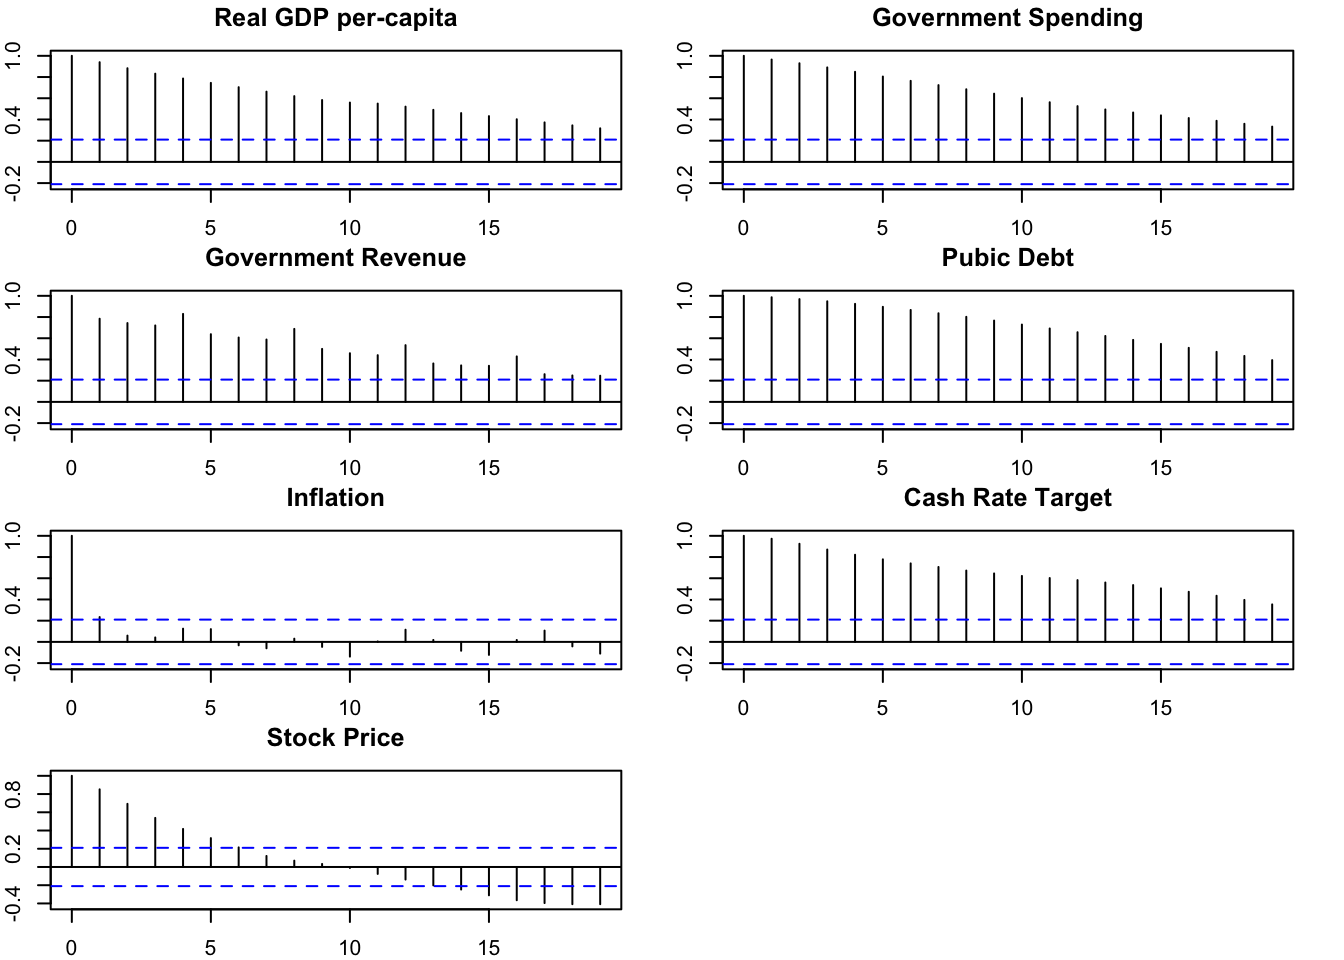
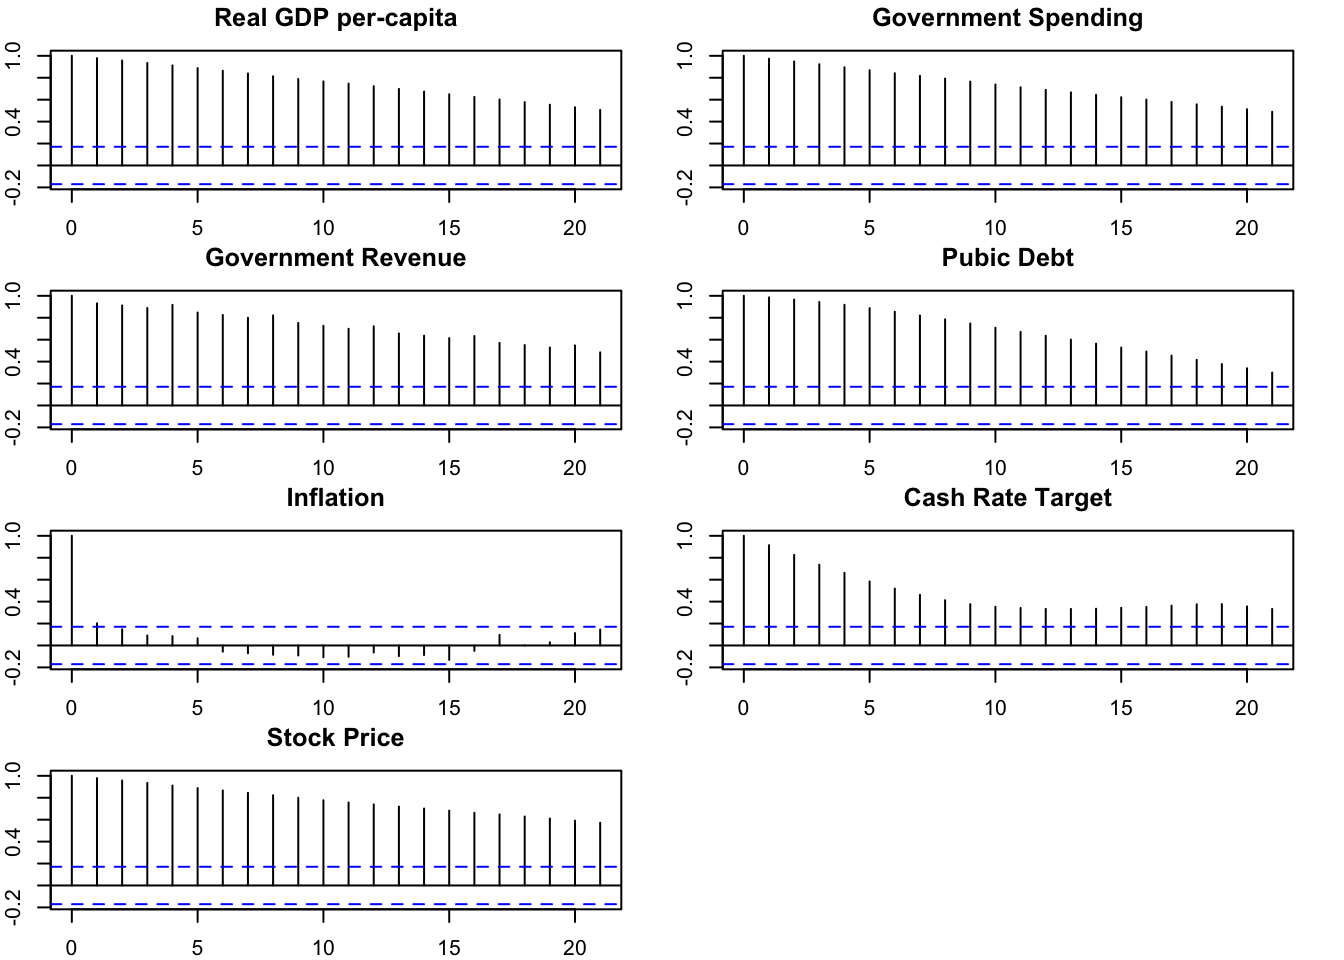
commit in the right way

diff --git a/docs/index.html b/docs/index.html
@@ -154,8 +154,8 @@ code span.wa { color: #60a0b0; font-weight: bold; font-style: italic; } /* Warni
   <ul>
   <li><a href="#motivation" id="toc-motivation" class="nav-link active" data-scroll-target="#motivation">Motivation</a></li>
   <li><a href="#data" id="toc-data" class="nav-link" data-scroll-target="#data">Data</a></li>
-  <li><a href="#methodology" id="toc-methodology" class="nav-link" data-scroll-target="#methodology">Methodology</a></li>
   <li><a href="#preliminary-results" id="toc-preliminary-results" class="nav-link" data-scroll-target="#preliminary-results">Preliminary Results</a></li>
+  <li><a href="#methodology" id="toc-methodology" class="nav-link" data-scroll-target="#methodology">Methodology</a></li>
   <li><a href="#references" id="toc-references" class="nav-link" data-scroll-target="#references">References</a></li>
   </ul>
 </nav>
@@ -187,7 +187,7 @@ code span.wa { color: #60a0b0; font-weight: bold; font-style: italic; } /* Warni
 </header>
 
 <blockquote class="blockquote">
-<p><strong>Abstract.</strong> This is a reserarch proposal, the project is about measuring fiscal policy effects using Bayesian Structural Vector Autoregression (SVAR) in Australian Economy. Inpulse responses of stock prices and macroeconomic aggregates will be investigated.</p>
+<p><strong>Abstract.</strong> This is a reserarch proposal, the project is about measuring fiscal policy effects using Bayesian Structural Vector Autoregression (SVAR) in Australian Economy. Impulse responses of stock prices and macroeconomic aggregates will be investigated.</p>
 <p><strong>Keywords.</strong> fiscal policy shock, SVAR, tax shocks, stock price, impulse response function</p>
 </blockquote>
 <section id="motivation" class="level1">
@@ -202,8 +202,8 @@ code span.wa { color: #60a0b0; font-weight: bold; font-style: italic; } /* Warni
 <div class="cell">
 
 </div>
-<p>The variables that are of interest include GDP, total government expenditure, total government revenue, cash rate target, inflation, public debt and stock prices. Those economic variables were collected from Reserve Bank of Australia (RBA) and Australian Bureau of Statistics (ABS), spanning quarterly from 1990 Q1 to 2022 Q4.</p>
-<p>Stock prices are data of All Ordinaries, which is the benchmark of Australian market with relative long history, separate financial sectors might be studied into detail in the future research. All Ordinaries data started from 2001-04-19, matching the date need to truncate 10 years of observations, which will result in a smaller sample size, thus, sub-samples would be considered to be implemented, for example, there could be one sample containing all the variables from 1990 to 2022 except stock prices to investigate the effects on economy. Inflation and cash rate target are also introduced in the model as controls.(Plots of original data are shown in: <a href="#fig-plot">Figure&nbsp;1</a>.)</p>
+<p>The variables that are of interest include GDP, total government expenditure, total government revenue, cash rate target, inflation, public debt and stock prices. Those economic variables were collected from Reserve Bank of Australia (RBA) and Australian Bureau of Statistics (ABS), spanning quarterly from 1990 Q1 to 2022 Q4, including 132 observations.</p>
+<p>Stock prices are data of All Ordinaries, which is the benchmark of Australian market with relative long history, separate financial sectors might be studied into detail in the future research. Inflation and cash rate target are also introduced in the model as controls. Original data are plotted in: <a href="#fig-plot">Figure&nbsp;1</a>.</p>
 <div class="cell">
 
 </div>
@@ -212,7 +212,7 @@ code span.wa { color: #60a0b0; font-weight: bold; font-style: italic; } /* Warni
 <div id="fig-plot" class="quarto-figure quarto-figure-center anchored">
 <figure class="figure">
 <p><img src="index_files/figure-html/fig-plot-1.png" class="img-fluid figure-img" width="672"></p>
-<p></p><figcaption class="figure-caption">Figure&nbsp;1: Time Series Plots : in nominal prices</figcaption><p></p>
+<p></p><figcaption class="figure-caption">Figure&nbsp;1: Time Series Plots (in nominal prices)</figcaption><p></p>
 </figure>
 </div>
 </div>
@@ -222,12 +222,12 @@ code span.wa { color: #60a0b0; font-weight: bold; font-style: italic; } /* Warni
 <div class="cell">
 
 </div>
-<p><a href="#tbl-irf">Table&nbsp;1</a> provides summary statistics of wrangled datan from 2001Q2 to 2022Q4.</p>
+<p><a href="#tbl-irf">Table&nbsp;1</a> provides statistics summary of all variables from 2001Q2 to 2022Q4.</p>
 <div class="cell">
 <div class="cell-output-display">
 <div id="tbl-irf" class="anchored">
 <table class="table table-sm table-striped">
-<caption>Table&nbsp;1: Summary Statistics</caption>
+<caption>Table&nbsp;1: Statistics Summary</caption>
 <thead>
 <tr class="header">
 <th style="text-align: left;"></th>
@@ -241,59 +241,59 @@ code span.wa { color: #60a0b0; font-weight: bold; font-style: italic; } /* Warni
 <tbody>
 <tr class="odd">
 <td style="text-align: left;">GDP</td>
-<td style="text-align: right;">87</td>
-<td style="text-align: right;">5.235</td>
-<td style="text-align: right;">0.072</td>
-<td style="text-align: right;">5.071</td>
+<td style="text-align: right;">132</td>
+<td style="text-align: right;">5.131</td>
+<td style="text-align: right;">0.164</td>
+<td style="text-align: right;">4.813</td>
 <td style="text-align: right;">5.356</td>
 </tr>
 <tr class="even">
 <td style="text-align: left;">Spending</td>
-<td style="text-align: right;">87</td>
-<td style="text-align: right;">3.587</td>
-<td style="text-align: right;">0.130</td>
-<td style="text-align: right;">3.381</td>
+<td style="text-align: right;">132</td>
+<td style="text-align: right;">3.472</td>
+<td style="text-align: right;">0.197</td>
+<td style="text-align: right;">3.119</td>
 <td style="text-align: right;">3.846</td>
 </tr>
 <tr class="odd">
 <td style="text-align: left;">Revenue</td>
-<td style="text-align: right;">87</td>
-<td style="text-align: right;">5.131</td>
-<td style="text-align: right;">0.088</td>
-<td style="text-align: right;">4.925</td>
+<td style="text-align: right;">132</td>
+<td style="text-align: right;">5.024</td>
+<td style="text-align: right;">0.173</td>
+<td style="text-align: right;">4.654</td>
 <td style="text-align: right;">5.301</td>
 </tr>
 <tr class="even">
 <td style="text-align: left;">Debt</td>
-<td style="text-align: right;">87</td>
-<td style="text-align: right;">4.724</td>
-<td style="text-align: right;">0.794</td>
+<td style="text-align: right;">132</td>
+<td style="text-align: right;">4.660</td>
+<td style="text-align: right;">0.664</td>
 <td style="text-align: right;">3.549</td>
 <td style="text-align: right;">5.900</td>
 </tr>
 <tr class="odd">
 <td style="text-align: left;">Inflation</td>
-<td style="text-align: right;">87</td>
-<td style="text-align: right;">0.653</td>
-<td style="text-align: right;">0.547</td>
+<td style="text-align: right;">132</td>
+<td style="text-align: right;">0.650</td>
+<td style="text-align: right;">0.617</td>
 <td style="text-align: right;">-1.923</td>
-<td style="text-align: right;">2.098</td>
+<td style="text-align: right;">3.704</td>
 </tr>
 <tr class="even">
 <td style="text-align: left;">Interest</td>
-<td style="text-align: right;">87</td>
-<td style="text-align: right;">3.372</td>
-<td style="text-align: right;">2.006</td>
+<td style="text-align: right;">132</td>
+<td style="text-align: right;">4.605</td>
+<td style="text-align: right;">2.906</td>
 <td style="text-align: right;">0.100</td>
-<td style="text-align: right;">7.250</td>
+<td style="text-align: right;">16.750</td>
 </tr>
 <tr class="odd">
 <td style="text-align: left;">Stock</td>
-<td style="text-align: right;">87</td>
-<td style="text-align: right;">4.102</td>
-<td style="text-align: right;">0.151</td>
-<td style="text-align: right;">3.784</td>
-<td style="text-align: right;">4.484</td>
+<td style="text-align: right;">132</td>
+<td style="text-align: right;">-3.126</td>
+<td style="text-align: right;">1.981</td>
+<td style="text-align: right;">-6.135</td>
+<td style="text-align: right;">0.534</td>
 </tr>
 </tbody>
 </table>
@@ -305,41 +305,11 @@ code span.wa { color: #60a0b0; font-weight: bold; font-style: italic; } /* Warni
 <div id="fig-line-plot" class="quarto-figure quarto-figure-center anchored">
 <figure class="figure">
 <p><img src="index_files/figure-html/fig-line-plot-1.png" class="img-fluid figure-img" width="672"></p>
-<p></p><figcaption class="figure-caption">Figure&nbsp;2: Time Series Plots (Green lines are log transformation)</figcaption><p></p>
+<p></p><figcaption class="figure-caption">Figure&nbsp;2: Time Series Plots (green lines are log transformation)</figcaption><p></p>
 </figure>
 </div>
 </div>
 </div>
-</section>
-<section id="methodology" class="level1">
-<h1>Methodology</h1>
-<p>Bayesian Structural vector autoregression (SVAR) models to capture the dynamic and contemporaneous relationships between variables. The benchmark model is defined as:</p>
-<p><span class="math display">\[\begin{align}
-B_0Y_t = b_0 + \sum_{i=1}^{p}B_{i}Y_{t-i}+u_t
-\end{align}\]</span> <span class="math display">\[\begin{align}
-u_t|Y_{t-1}\sim iid(0_N,I_N)
-\end{align}\]</span></p>
-<p><span class="math inline">\(Y_t\)</span> is <span class="math inline">\(N\times1\)</span> matrix of endogenous variables,N represents the number of endogeneous variables and p is the number of lags. <span class="math inline">\(B_0\)</span> is <span class="math inline">\(N\times N\)</span> matrix capturing contemporaneous relationships between variables, and <span class="math inline">\(u_t\)</span> is <span class="math inline">\(N\times1\)</span> vector conditionally on <span class="math inline">\(Y_{t-1}\)</span> orthogonal structural shocks.</p>
-<p>In particular, in this model, <span class="math inline">\(Y_t\)</span> contains seven variables ordered as : (1) real per-capita GDP (<span class="math inline">\(G_t\)</span>), (2) real per-capita government expenditure (<span class="math inline">\(E_t\)</span>), (3) real per-capita government revenue (<span class="math inline">\(R_t\)</span>), (4) real per-capita public debt (<span class="math inline">\(D_t\)</span>), (5) inflation (<span class="math inline">\(i_t\)</span>), (6) cash rate target (r_t), (7) real stock price (<span class="math inline">\(S_t\)</span>).</p>
-<p><span class="math display">\[\begin{align}
-Y_t=\begin{pmatrix}
-\\ G_t
-\\ E_t
-\\ R_t
-\\ D_t
-\\ i_t
-\\ r_t
-\\ S_t
-\end{pmatrix}
-\end{align}\]</span></p>
-<p>The reduced form representation is: <span class="math display">\[\begin{align}
-Y_t = \mu_0 + \sum_{i=1}^{p}A_{i}Y_{t-i}+\epsilon_t
-\end{align}\]</span> <span class="math display">\[\begin{align}
-\epsilon_t|Y_{t-1}\sim iid(0_N,\Sigma)
-\end{align}\]</span></p>
-<p>The covariance matrix of <span class="math inline">\(\epsilon_t\)</span> can be written as: <span class="math display">\[\begin{align}
-\Sigma=B_0^{-1}{B_0^{-1}}^{'}
-\end{align}\]</span></p>
 </section>
 <section id="preliminary-results" class="level1">
 <h1>Preliminary Results</h1>
@@ -359,7 +329,7 @@ Y_t = \mu_0 + \sum_{i=1}^{p}A_{i}Y_{t-i}+\epsilon_t
 <div id="fig-pacf-plot" class="quarto-figure quarto-figure-center anchored">
 <figure class="figure">
 <p><img src="index_files/figure-html/fig-pacf-plot-1.png" class="img-fluid figure-img" width="672"></p>
-<p></p><figcaption class="figure-caption">Figure&nbsp;4: Partial ACF Plots</figcaption><p></p>
+<p></p><figcaption class="figure-caption">Figure&nbsp;4: PACF Plots</figcaption><p></p>
 </figure>
 </div>
 </div>
@@ -394,45 +364,45 @@ Y_t = \mu_0 + \sum_{i=1}^{p}A_{i}Y_{t-i}+\epsilon_t
 <tbody>
 <tr class="odd">
 <td style="text-align: left;">GDP</td>
-<td style="text-align: right;">-2.701</td>
-<td style="text-align: right;">4</td>
-<td style="text-align: right;">0.288</td>
+<td style="text-align: right;">-1.691</td>
+<td style="text-align: right;">5</td>
+<td style="text-align: right;">0.705</td>
 </tr>
 <tr class="even">
 <td style="text-align: left;">Spending</td>
-<td style="text-align: right;">-1.933</td>
-<td style="text-align: right;">4</td>
-<td style="text-align: right;">0.604</td>
+<td style="text-align: right;">-2.563</td>
+<td style="text-align: right;">5</td>
+<td style="text-align: right;">0.342</td>
 </tr>
 <tr class="odd">
 <td style="text-align: left;">Revenue</td>
-<td style="text-align: right;">-2.577</td>
-<td style="text-align: right;">4</td>
-<td style="text-align: right;">0.339</td>
+<td style="text-align: right;">-1.295</td>
+<td style="text-align: right;">5</td>
+<td style="text-align: right;">0.869</td>
 </tr>
 <tr class="even">
 <td style="text-align: left;">Debt</td>
-<td style="text-align: right;">-2.470</td>
-<td style="text-align: right;">4</td>
-<td style="text-align: right;">0.383</td>
+<td style="text-align: right;">-1.624</td>
+<td style="text-align: right;">5</td>
+<td style="text-align: right;">0.733</td>
 </tr>
 <tr class="odd">
 <td style="text-align: left;">Inflation</td>
-<td style="text-align: right;">-1.154</td>
-<td style="text-align: right;">4</td>
-<td style="text-align: right;">0.909</td>
+<td style="text-align: right;">-3.123</td>
+<td style="text-align: right;">5</td>
+<td style="text-align: right;">0.109</td>
 </tr>
 <tr class="even">
 <td style="text-align: left;">Interest</td>
-<td style="text-align: right;">-2.177</td>
-<td style="text-align: right;">4</td>
-<td style="text-align: right;">0.503</td>
+<td style="text-align: right;">-4.007</td>
+<td style="text-align: right;">5</td>
+<td style="text-align: right;">0.011</td>
 </tr>
 <tr class="odd">
 <td style="text-align: left;">Stock</td>
-<td style="text-align: right;">-2.573</td>
-<td style="text-align: right;">4</td>
-<td style="text-align: right;">0.340</td>
+<td style="text-align: right;">-2.510</td>
+<td style="text-align: right;">5</td>
+<td style="text-align: right;">0.364</td>
 </tr>
 </tbody>
 </table>
@@ -456,44 +426,44 @@ Y_t = \mu_0 + \sum_{i=1}^{p}A_{i}Y_{t-i}+\epsilon_t
 <tbody>
 <tr class="odd">
 <td style="text-align: left;">GDP</td>
-<td style="text-align: right;">-3.975</td>
-<td style="text-align: right;">4</td>
-<td style="text-align: right;">0.015</td>
+<td style="text-align: right;">-5.393</td>
+<td style="text-align: right;">5</td>
+<td style="text-align: right;">0.010</td>
 </tr>
 <tr class="even">
 <td style="text-align: left;">Spending</td>
-<td style="text-align: right;">-4.178</td>
-<td style="text-align: right;">4</td>
+<td style="text-align: right;">-4.358</td>
+<td style="text-align: right;">5</td>
 <td style="text-align: right;">0.010</td>
 </tr>
 <tr class="odd">
 <td style="text-align: left;">Revenue</td>
-<td style="text-align: right;">-5.593</td>
-<td style="text-align: right;">4</td>
+<td style="text-align: right;">-6.489</td>
+<td style="text-align: right;">5</td>
 <td style="text-align: right;">0.010</td>
 </tr>
 <tr class="even">
 <td style="text-align: left;">Debt</td>
-<td style="text-align: right;">-2.249</td>
-<td style="text-align: right;">4</td>
-<td style="text-align: right;">0.474</td>
+<td style="text-align: right;">-2.657</td>
+<td style="text-align: right;">5</td>
+<td style="text-align: right;">0.303</td>
 </tr>
 <tr class="odd">
 <td style="text-align: left;">Inflation</td>
-<td style="text-align: right;">-6.179</td>
-<td style="text-align: right;">4</td>
+<td style="text-align: right;">-6.211</td>
+<td style="text-align: right;">5</td>
 <td style="text-align: right;">0.010</td>
 </tr>
 <tr class="even">
 <td style="text-align: left;">Interest</td>
-<td style="text-align: right;">-3.482</td>
-<td style="text-align: right;">4</td>
-<td style="text-align: right;">0.049</td>
+<td style="text-align: right;">-4.167</td>
+<td style="text-align: right;">5</td>
+<td style="text-align: right;">0.010</td>
 </tr>
 <tr class="odd">
 <td style="text-align: left;">Stock</td>
-<td style="text-align: right;">-4.475</td>
-<td style="text-align: right;">4</td>
+<td style="text-align: right;">-5.032</td>
+<td style="text-align: right;">5</td>
 <td style="text-align: right;">0.010</td>
 </tr>
 </tbody>
@@ -517,8 +487,8 @@ Y_t = \mu_0 + \sum_{i=1}^{p}A_{i}Y_{t-i}+\epsilon_t
 <tbody>
 <tr class="odd">
 <td style="text-align: left;">Debt</td>
-<td style="text-align: right;">-5.525</td>
-<td style="text-align: right;">4</td>
+<td style="text-align: right;">-6.87</td>
+<td style="text-align: right;">5</td>
 <td style="text-align: right;">0.01</td>
 </tr>
 </tbody>
@@ -526,6 +496,36 @@ Y_t = \mu_0 + \sum_{i=1}^{p}A_{i}Y_{t-i}+\epsilon_t
 </div>
 </div>
 </div>
+</section>
+<section id="methodology" class="level1">
+<h1>Methodology</h1>
+<p>Bayesian Structural vector autoregression (SVAR) models to capture the dynamic and contemporaneous relationships between variables. The benchmark model is defined as:</p>
+<p><span class="math display">\[\begin{align}
+B_0Y_t = b_0 + \sum_{i=1}^{p}B_{i}Y_{t-i}+u_t
+\end{align}\]</span> <span class="math display">\[\begin{align}
+u_t|Y_{t-1}\sim iid(0_N,I_N)
+\end{align}\]</span></p>
+<p><span class="math inline">\(Y_t\)</span> is <span class="math inline">\(N\times1\)</span> matrix of endogenous variables,N represents the number of endogeneous variables and p is the number of lags. <span class="math inline">\(B_0\)</span> is <span class="math inline">\(N\times N\)</span> matrix capturing contemporaneous relationships between variables, and <span class="math inline">\(u_t\)</span> is <span class="math inline">\(N\times1\)</span> vector conditionally on <span class="math inline">\(Y_{t-1}\)</span> orthogonal structural shocks.</p>
+<p>In particular, in this model, <span class="math inline">\(Y_t\)</span> contains seven variables ordered as : (1) real per-capita GDP (<span class="math inline">\(G_t\)</span>), (2) real per-capita government expenditure (<span class="math inline">\(E_t\)</span>), (3) real per-capita government revenue (<span class="math inline">\(R_t\)</span>), (4) real per-capita public debt (<span class="math inline">\(D_t\)</span>), (5) inflation (<span class="math inline">\(i_t\)</span>), (6) cash rate target (<span class="math inline">\(r_t\)</span>), (7) real stock price (<span class="math inline">\(S_t\)</span>).</p>
+<p><span class="math display">\[\begin{align}
+Y_t=\begin{pmatrix}
+\\ G_t
+\\ E_t
+\\ R_t
+\\ D_t
+\\ i_t
+\\ r_t
+\\ S_t
+\end{pmatrix}
+\end{align}\]</span></p>
+<p>The reduced form representation is: <span class="math display">\[\begin{align}
+Y_t = \mu_0 + \sum_{i=1}^{p}A_{i}Y_{t-i}+\epsilon_t
+\end{align}\]</span> <span class="math display">\[\begin{align}
+\epsilon_t|Y_{t-1}\sim iid(0_N,\Sigma)
+\end{align}\]</span></p>
+<p>The covariance matrix of <span class="math inline">\(\epsilon_t\)</span> can be written as: <span class="math display">\[\begin{align}
+\Sigma=B_0^{-1}{B_0^{-1}}^{'}
+\end{align}\]</span></p>
 </section>
 <section id="references" class="level1 unnumbered">
 <h1 class="unnumbered">References</h1>
